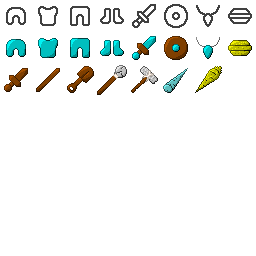
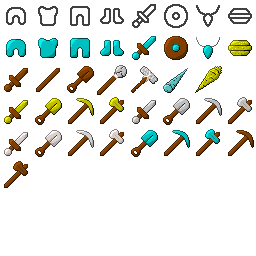
new weapons

diff --git a/js_lists/equipList.js b/js_lists/equipList.js
@@ -1,0 +1,34 @@
+var equiplist = [ //[name, css class for icon, description, source, bonuses]
+    ["null", "iconless", "Whoops, forgot to put something here.", "An error", ""], //0
+    ["armor.empty_helm", "empty_helm", "desc.empty_equip", "src.empty_equip", ""], //1
+    ["armor.empty_chest", "empty_chest", "desc.empty_equip", "src.empty_equip", ""], //2
+    ["armor.empty_legs", "empty_legs", "desc.empty_equip", "src.empty_equip", ""], //3
+    ["armor.empty_boots", "empty_boots", "desc.empty_equip", "src.empty_equip", ""], //4
+    ["armor.empty_sword", "empty_sword", "desc.empty_equip", "src.empty_equip", ""], //5
+    ["armor.empty_shield", "empty_shield", "desc.empty_equip", "src.empty_equip", ""], //6
+    ["armor.empty_acc", "empty_acc", "desc.empty_equip", "src.empty_equip", ""], //7
+    ["armor.empty_food", "empty_food", "desc.empty_equip", "src.empty_equip", ""], //8
+    ["Wooden Sword", "wood_sword", "A sword made out of wood.", "Crafting", "+1 Indirect Attack"], //9
+    ["Wooden Shovel", "wood_shovel", "A shovel made out of wood. Not the most conventional of weapons.", "Crafting", "+1 Indirect Attack"], //10
+    ["Stick and Rock", "stick_rock", "A rock taped to a stick. This isn't very good.", "Crafting", "50% Chance of breaking on hit"], //11
+    ["Golden Carrot", "gold_carrot", "A carrot made out of gold. Aren't carrots supposed to give you better eyesight?", "Gardening", "+0.3 Indirect Defense"], //12
+    ["Diamond Shield", "diamond_shield", "A shield with a diamond in the center.", "???", "+2 Indirect Defense<br />+1 Direct Defense"], //13
+    ["Golden Sword", "gold_sword", "A sword made out of gold. Seems fragile.", "Crafting", "+1 Indirect Attack<br />10% chance of breaking on hit"], //14
+    ["Golden Shovel", "gold_shovel", "A shovel made out of gold. Seems fragile.", "Crafting", "+1 Indirect Attack<br />10% chance of breaking on hit"], //15
+    ["Golden Pickaxe", "gold_pickaxe", "A pickaxe made out of gold. Seems fragile, and is probably better used for mining.", "Crafting", "+1 Indirect Attack<br />+2 to Mining<br />10% chance of breaking on hit or mine"], //16
+    ["Golden Axe", "gold_axe", "A axe made out of gold. Seems fragile, and is probably better used for chopping.", "Crafting", "+2 Indirect Attack<br />+2 to Chopping<br />10% chance of breaking on hit or chop"], //17
+    ["Iron Sword", "iron_sword", "A sword made out of iron.", "Crafting", "+1 Direct Attack<br />+1 Indirect Attack"], //18
+    ["Iron Shovel", "iron_shovel", "A shovel made out of iron.", "Crafting", "+1 Indirect Attack"], //19
+    ["Iron Pickaxe", "iron_pickaxe", "A pickaxe made out of iron. You should probably use this for mining instead.", "Crafting", "+1 Direct Attack<br />+2 to Mining"], //20
+    ["Iron Axe", "iron_axe", "A axe made out of iron. You should probably use this for chopping instead.", "Crafting", "+1 Direct Attack<br />+2 Indirect Attack<br />+2 to Chopping"], //21
+    ["Stone Sword", "stone_sword", "A sword made out of stone.", "Crafting", "+1 Direct Attack"], //22
+    ["Stone Shovel", "stone_shovel", "A shovel made out of stone.", "Crafting", "+1 Indirect Attack"], //23
+    ["Stone Pickaxe", "stone_pickaxe", "A pickaxe made out of stone. You should probably use this for mining instead.", "Crafting", "+1 Indirect Attack<br />+1 to Mining"], //24
+    ["Stone Axe", "stone_axe", "A axe made out of stone. You should probably use this for chopping instead.", "Crafting", "+1 Direct Attack<br />+1 Indirect Attack<br />+1 to Chopping"], //25
+    ["Diamond Sword", "diamond_sword", "A sword made out of diamonds.", "Crafting", "+2 Direct Attack"], //26
+    ["Diamond Shovel", "diamond_shovel", "A shovel made out of diamonds.", "Crafting", "+2 Indirect Attack"], //27
+    ["Diamond Pickaxe", "diamond_pickaxe", "A pickaxe made out of diamonds. You should probably use this for mining instead.", "Crafting", "+1 Direct Attack<br />+2 Indirect Attack<br />+3 to Mining"], //28
+    ["Diamond Axe", "diamond_axe", "A axe made out of diamonds. You should probably use this for chopping instead.", "Crafting", "+2 Direct Attack<br />+1 Indirect Attack<br />+3 to Chopping"], //29
+    ["Wooden Pickaxe", "wood_pickaxe", "A pickaxe made out of wood. You should probably use this for mining instead.", "Crafting", "+1 Indirect Attack<br />+1 to Mining"], //30
+    ["Wooden Axe", "wood_axe", "A axe made out of wood. You should probably use this for chopping instead.", "Crafting", "+1 Indirect Attack<br />+1 to Chopping"] //31
+]

diff --git a/3/stats_table.js b/3/stats_table.js
@@ -1,41 +1,4 @@
 var typelist = ["typeless", "normal_type", "fire_type", "water_type", "elec_type", "plant_type", "ice_type", "light_type", "dark_type", "missingtype"]
-var effectlist = [ //[name, css class for icon, description, source, bonuses]
-    ["None", "iconless", "Looks like someone forgot to clear the slot.", "An error", ""], //0
-    ["AFK", "afk", "Hey, where'd you go?", "Not playing", "Can't be interacted with"], //1
-    ["On Fire", "on_fire", "It burns, like fire normally does.", "Fire", "-4 HP each turn<br />Items have a small chance of burning up"], //2
-    ["Frozen", "frozen", "Where'd all this ice come from, anyway?", "Ice", "Can't move"], //3
-    ["KOd", "ko", "Maybe pay more attention to your HP next time?", "Reaching 0 HP", "Can't interact with anything<br />Can't be interacted with"], //4
-    ["Paralyzed", "paralyzed", "Bzzzt!", "Electricity", "Actions have a 1/3 chance of failing"], //5
-    ["Poisoned", "poisoned", "\"Oooh, what's this purple stuff do?\"", "Poison", "-6 HP each turn"], //6
-    ["Soaked", "soaked", "You stayed in the rain too long and now you're all soggy.", "Rain", "You keep tracking water everywhere"] //7
-]
-var skilllist = [ //[name, css class for icon]
-    ["None", "iconless"], //0
-    ["Gardening", "gardening"], //1
-    ["Mining", "mining"], //2
-    ["Chopping", "chopping"], //3
-    ["Crafting", "crafting"], //4
-    ["Carving", "carving"], //5
-    ["Cooking", "cooking"], //6
-    ["Construction", "construction"], //7
-    ["Gathering", "gathering"] //8
-]
-var equiplist = [ //[name, css class for icon, description, source, bonuses]
-    ["null", "iconless", "Whoops, forgot to put something here.", "An error", ""], //0
-    ["armor.empty_helm", "empty_helm", "desc.empty_equip", "src.empty_equip", ""], //1
-    ["armor.empty_chest", "empty_chest", "desc.empty_equip", "src.empty_equip", ""], //2
-    ["armor.empty_legs", "empty_legs", "desc.empty_equip", "src.empty_equip", ""], //3
-    ["armor.empty_boots", "empty_boots", "desc.empty_equip", "src.empty_equip", ""], //4
-    ["armor.empty_sword", "empty_sword", "desc.empty_equip", "src.empty_equip", ""], //5
-    ["armor.empty_shield", "empty_shield", "desc.empty_equip", "src.empty_equip", ""], //6
-    ["armor.empty_acc", "empty_acc", "desc.empty_equip", "src.empty_equip", ""], //7
-    ["armor.empty_food", "empty_food", "desc.empty_equip", "src.empty_equip", ""], //8
-    ["Wooden Sword", "wood_sword", "A sword made out of wood.", "Crafting", "+1 Indirect Attack"], //9
-    ["Wooden Shovel", "wood_shovel", "A shovel made out of wood. Not the most conventional of weapons.", "Crafting", "+1 Indirect Attack"], //10
-    ["Stick and Rock", "stick_rock", "A rock taped to a stick. This isn't very good.", "Crafting", "50% Chance of breaking on hit"], //11
-    ["Golden Carrot", "gold_carrot", "A carrot made out of gold. Aren't carrots supposed to give you better eyesight?", "Gardening", "+0.3 Indirect Defense"], //12
-    ["Diamond Shield", "diamond_shield", "A shield with a diamond in the center.", "???", "+2 Indirect Defense<br />+1 Direct Defense"] //13
-]
 var user_data = {
     "realicraft":{"type":0,"health":[95,100],"attack":["7+3","7+3"],"defense":[5,5],"kills":1,"deaths":1,"skills":[[6,0,25]],"effects":[],"equips":[1,2,3,4,5,6,7,8,""]},
     "SausageMcSauce":{"type":0,"health":[84,100],"attack":["7+3","7+3"],"defense":[5,5],"kills":1,"deaths":1,"skills":[],"effects":[[1,"*"]],"equips":[1,2,3,4,5,6,7,8,""]},

diff --git a/3/tooltip.js b/3/tooltip.js
@@ -10,29 +10,8 @@ var tooltip = function(name, desc, source, bonus) {
     tooltipBonusEl.innerHTML = bonus;
     tooltipBodyEl.setAttribute("style", "display: block;")
 }
-var tooltips = [
-    ["lang.en.itemname.default", "lang.en.itemdesc.default", "lang.en.itemsrc.default", ""],
-    ["Potted Canned Bean Bush", "A bush that grows cans of beans. In a pot.", "Unknown", ""],
-    ["Logo 3", 'The "3" from the logo.', "Unknown", ""],
-    ["Logo F", 'The "F" from the logo.', "Unknown", ""],
-    ["Logo S", 'The "S" from the logo.', "Unknown", ""],
-    ["Rock", "It's a small rock.", "Picking up a rock", ""],
-    ["Coal", "It's a piece of coal.", "Mining", ""],
-    ["Diamond", "It's a diamond. These things are rare!", "Mining", ""],
-    ["Decent Hammer", "Bonk.", "Crafting", "+1 Direct Attack"],
-    ["Slingshot", "You shoot things with it.", "Unknown", "+1 Indirect Attack"],
-    ["Golden Ripe Spinach Bundle", "Golden <em>and</em> ripe!?", "Harvesting Spinach", "+1 HP per turn"],
-    ["Golden Potato", "Butter included.", "Harvesting Potatoes", "+1 Direct Attack"],
-    ["Flint & Steel", "Sets things on fire.", "Unknown", ""],
-    ["TNT", "Explodes after being ignited.", "Unknown", ""],
-    ["Icicle", "It's cold, and kinda pointy.", "Finding it", "+10% chance to Freeze on hit"],
-    ["Tray of Cookies", "A tray filled with cookies.", "Cooking", ""],
-    ["Log", "A log.", "Chopping", ""],
-    ["Stick", "It's a stick. You can use it in a bunch of different things.", "Chopping", ""],
-    ["Planks", "Some planks.", "Chopping", ""]
-]
 var tt = function(id=0) {
-    tooltip(tooltips[id][0], tooltips[id][1], tooltips[id][2], tooltips[id][3])
+    tooltip(itemlist[id][0], itemlist[id][1], itemlist[id][2], itemlist[id][3])
 }
 var nt = function() {
     var tooltipBodyEl = document.getElementsByClassName("tooltip_body")[0];

diff --git a/js_lists/itemList.js b/js_lists/itemList.js
@@ -1,0 +1,21 @@
+var itemlist = [
+    ["lang.en.itemname.default", "lang.en.itemdesc.default", "lang.en.itemsrc.default", ""],
+    ["Potted Canned Bean Bush", "A bush that grows cans of beans. In a pot.", "Unknown", ""],
+    ["Logo 3", 'The "3" from the logo.', "Unknown", ""],
+    ["Logo F", 'The "F" from the logo.', "Unknown", ""],
+    ["Logo S", 'The "S" from the logo.', "Unknown", ""],
+    ["Rock", "It's a small rock.", "Picking up a rock", ""],
+    ["Coal", "It's a piece of coal.", "Mining", ""],
+    ["Diamond", "It's a diamond. These things are rare!", "Mining", ""],
+    ["Decent Hammer", "Bonk.", "Crafting", "+1 Direct Attack"],
+    ["Slingshot", "You shoot things with it.", "Unknown", "+1 Indirect Attack"],
+    ["Golden Ripe Spinach Bundle", "Golden <em>and</em> ripe!?", "Harvesting Spinach", "+1 HP per turn"],
+    ["Golden Potato", "Butter included.", "Harvesting Potatoes", "+1 Direct Attack"],
+    ["Flint & Steel", "Sets things on fire.", "Unknown", ""],
+    ["TNT", "Explodes after being ignited.", "Unknown", ""],
+    ["Icicle", "It's cold, and kinda pointy.", "Finding it", "+10% chance to Freeze on hit"],
+    ["Tray of Cookies", "A tray filled with cookies.", "Cooking", ""],
+    ["Log", "A log.", "Chopping", ""],
+    ["Stick", "It's a stick. You can use it in a bunch of different things.", "Chopping", ""],
+    ["Planks", "Some planks.", "Chopping", ""]
+]

diff --git a/js_lists/effectList.js b/js_lists/effectList.js
@@ -1,0 +1,10 @@
+var effectlist = [ //[name, css class for icon, description, source, bonuses]
+    ["None", "iconless", "Looks like someone forgot to clear the slot.", "An error", ""], //0
+    ["AFK", "afk", "Hey, where'd you go?", "Not playing", "Can't be interacted with"], //1
+    ["On Fire", "on_fire", "It burns, like fire normally does.", "Fire", "-4 HP each turn<br />Items have a small chance of burning up"], //2
+    ["Frozen", "frozen", "Where'd all this ice come from, anyway?", "Ice", "Can't move"], //3
+    ["KOd", "ko", "Maybe pay more attention to your HP next time?", "Reaching 0 HP", "Can't interact with anything<br />Can't be interacted with"], //4
+    ["Paralyzed", "paralyzed", "Bzzzt!", "Electricity", "Actions have a 1/3 chance of failing"], //5
+    ["Poisoned", "poisoned", "\"Oooh, what's this purple stuff do?\"", "Poison", "-6 HP each turn"], //6
+    ["Soaked", "soaked", "You stayed in the rain too long and now you're all soggy.", "Rain", "You keep tracking water everywhere"] //7
+]

diff --git a/3/stats.html b/3/stats.html
@@ -826,6 +826,9 @@
             <p class="tooltip_src1">Source: </p><p class="tooltip_src2">Item source</p>
         </div>
         <script src="allpages.js"></script>
+        <script src="../js_lists/effectList.js"></script>
+        <script src="../js_lists/equipList.js"></script>
+        <script src="../js_lists/skillList.js"></script>
         <script src="stats_table.js"></script>
     </body>
 </html>

diff --git a/js_lists/skillList.js b/js_lists/skillList.js
@@ -1,0 +1,11 @@
+var skilllist = [ //[name, css class for icon]
+    ["None", "iconless"], //0
+    ["Gardening", "gardening"], //1
+    ["Mining", "mining"], //2
+    ["Chopping", "chopping"], //3
+    ["Crafting", "crafting"], //4
+    ["Carving", "carving"], //5
+    ["Cooking", "cooking"], //6
+    ["Construction", "construction"], //7
+    ["Gathering", "gathering"] //8
+]

diff --git a/3/inventories.html b/3/inventories.html
@@ -194,6 +194,7 @@
             <p class="tooltip_src1">Source: </p><p class="tooltip_src2">Item source</p>
         </div>
         <script src="allpages.js"></script>
+        <script src="../js_lists/itemList.js"></script>
         <script src="tooltip.js"></script>
     </body>
 </html>
